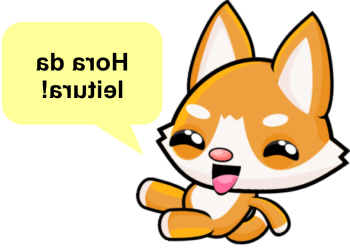
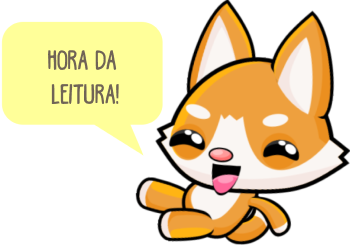
Done home page

Changed region(s): [[0.0857, 0.1976, 0.3714, 0.3105], [0.1143, 0.3105, 0.3714, 0.4234]]

diff --git a/src/pages/Home/index.tsx b/src/pages/Home/index.tsx
@@ -1,13 +1,91 @@
 import React from 'react';
 
 import Header from '../../components/Header';
+import Footer from '../../components/Footer';
 import Nav from '../../components/Nav';
+import Button from '../../components/Button';
+
+import foxImage from '../../assets/fox_home.png';
+import coronaBook from '../../assets/book_corona.png';
+import playIcon from '../../assets/icon_play.png';
+
+import {
+  FoxImg,
+  BookContainer,
+  BookContainerText,
+  DescriptionContainer,
+  DescriptionItem,
+} from './styles';
 
 const Home: React.FC = () => {
   return (
     <>
       <Header />
       <Nav />
+
+      <FoxImg src={foxImage} alt="Hora da leitura!" />
+
+      <BookContainer>
+        <img src={coronaBook} alt="Sai fora, coronavírus" />
+
+        <BookContainerText>
+          <h2>Sai fora, coronavírus</h2>
+          <p>
+            <strong>Autor(a):</strong> China Children's Press & Publication
+            Group
+          </p>
+          <p>
+            <strong>Editora:</strong>Pipa
+          </p>
+          <p>
+            <strong>Edição:</strong> 1ª ed.
+          </p>
+          <p>
+            Sai fora, coronavírus! é um livro ilustrado digital gratuito criado
+            para o público infantil com orientações para que as famílias possam
+            se proteger e compreender os cuidados que devem ser tomados, para
+            evitar o contágio e compreender as angustias emocionais que estão
+            vivenciando.
+          </p>
+          <Button>
+            Ler agora
+            <img src={playIcon} alt="play" />
+          </Button>
+        </BookContainerText>
+      </BookContainer>
+
+      <DescriptionContainer>
+        <DescriptionItem>
+          <strong>Tipo de leitor:</strong>
+          <p>Autônomo</p>
+
+          <strong>Idioma:</strong>
+          <p>Português</p>
+        </DescriptionItem>
+
+        <DescriptionItem>
+          <strong>Categoria:</strong>
+          <p>Ciências da natureza - Ciências da saúde</p>
+          <p>Saúde e bem-estar - Família e relacionamentos</p>
+        </DescriptionItem>
+
+        <DescriptionItem>
+          <strong>Temática:</strong>
+          <p>Saúde</p>
+          <p>Higiene e saúde</p>
+          <p>Doença</p>
+          <p>Família</p>
+          <p>Infância</p>
+        </DescriptionItem>
+
+        <DescriptionItem>
+          <strong>Características:</strong>
+          <p>Didático</p>
+          <p>Técnico</p>
+        </DescriptionItem>
+      </DescriptionContainer>
+
+      <Footer />
     </>
   );
 };

diff --git a/src/pages/Home/styles.ts b/src/pages/Home/styles.ts
@@ -1,0 +1,70 @@
+import styled from 'styled-components';
+
+export const FoxImg = styled.img`
+  position: absolute;
+  top: 180px;
+  right: 40px;
+`;
+
+export const BookContainer = styled.section`
+  padding: 0 40px;
+  margin-top: 250px;
+
+  display: flex;
+  align-items: center;
+`;
+
+export const BookContainerText = styled.div`
+  width: 680px;
+  margin-left: 30px;
+
+  display: flex;
+  flex-direction: column;
+
+  h2 {
+    font-size: 32px;
+    margin-bottom: 24px;
+  }
+
+  p {
+    margin-bottom: 8px;
+
+    &:last-of-type {
+      margin-top: 24px;
+    }
+  }
+
+  button {
+    width: 400px;
+
+    align-self: center;
+    position: relative;
+    display: flex;
+    justify-content: center;
+    align-items: center;
+
+    img {
+      position: absolute;
+      right: 16px;
+    }
+  }
+`;
+
+export const DescriptionContainer = styled.section`
+  margin: 60px;
+
+  display: grid;
+  grid-template-columns: 1fr 2fr 1fr 1fr;
+  column-gap: 80px;
+`;
+
+export const DescriptionItem = styled.div`
+  p {
+    margin-top: 8px;
+
+    & + strong {
+      display: block;
+      margin-top: 32px;
+    }
+  }
+`;

diff --git a/src/components/Nav/styles.ts b/src/components/Nav/styles.ts
@@ -3,6 +3,7 @@ import styled from 'styled-components';
 export const NavContainer = styled.nav`
   width: 100%;
   height: 90px;
+  background: #fff;
   box-shadow: 2px 0px 4px #999999;
   padding: 32px 40px;
 
